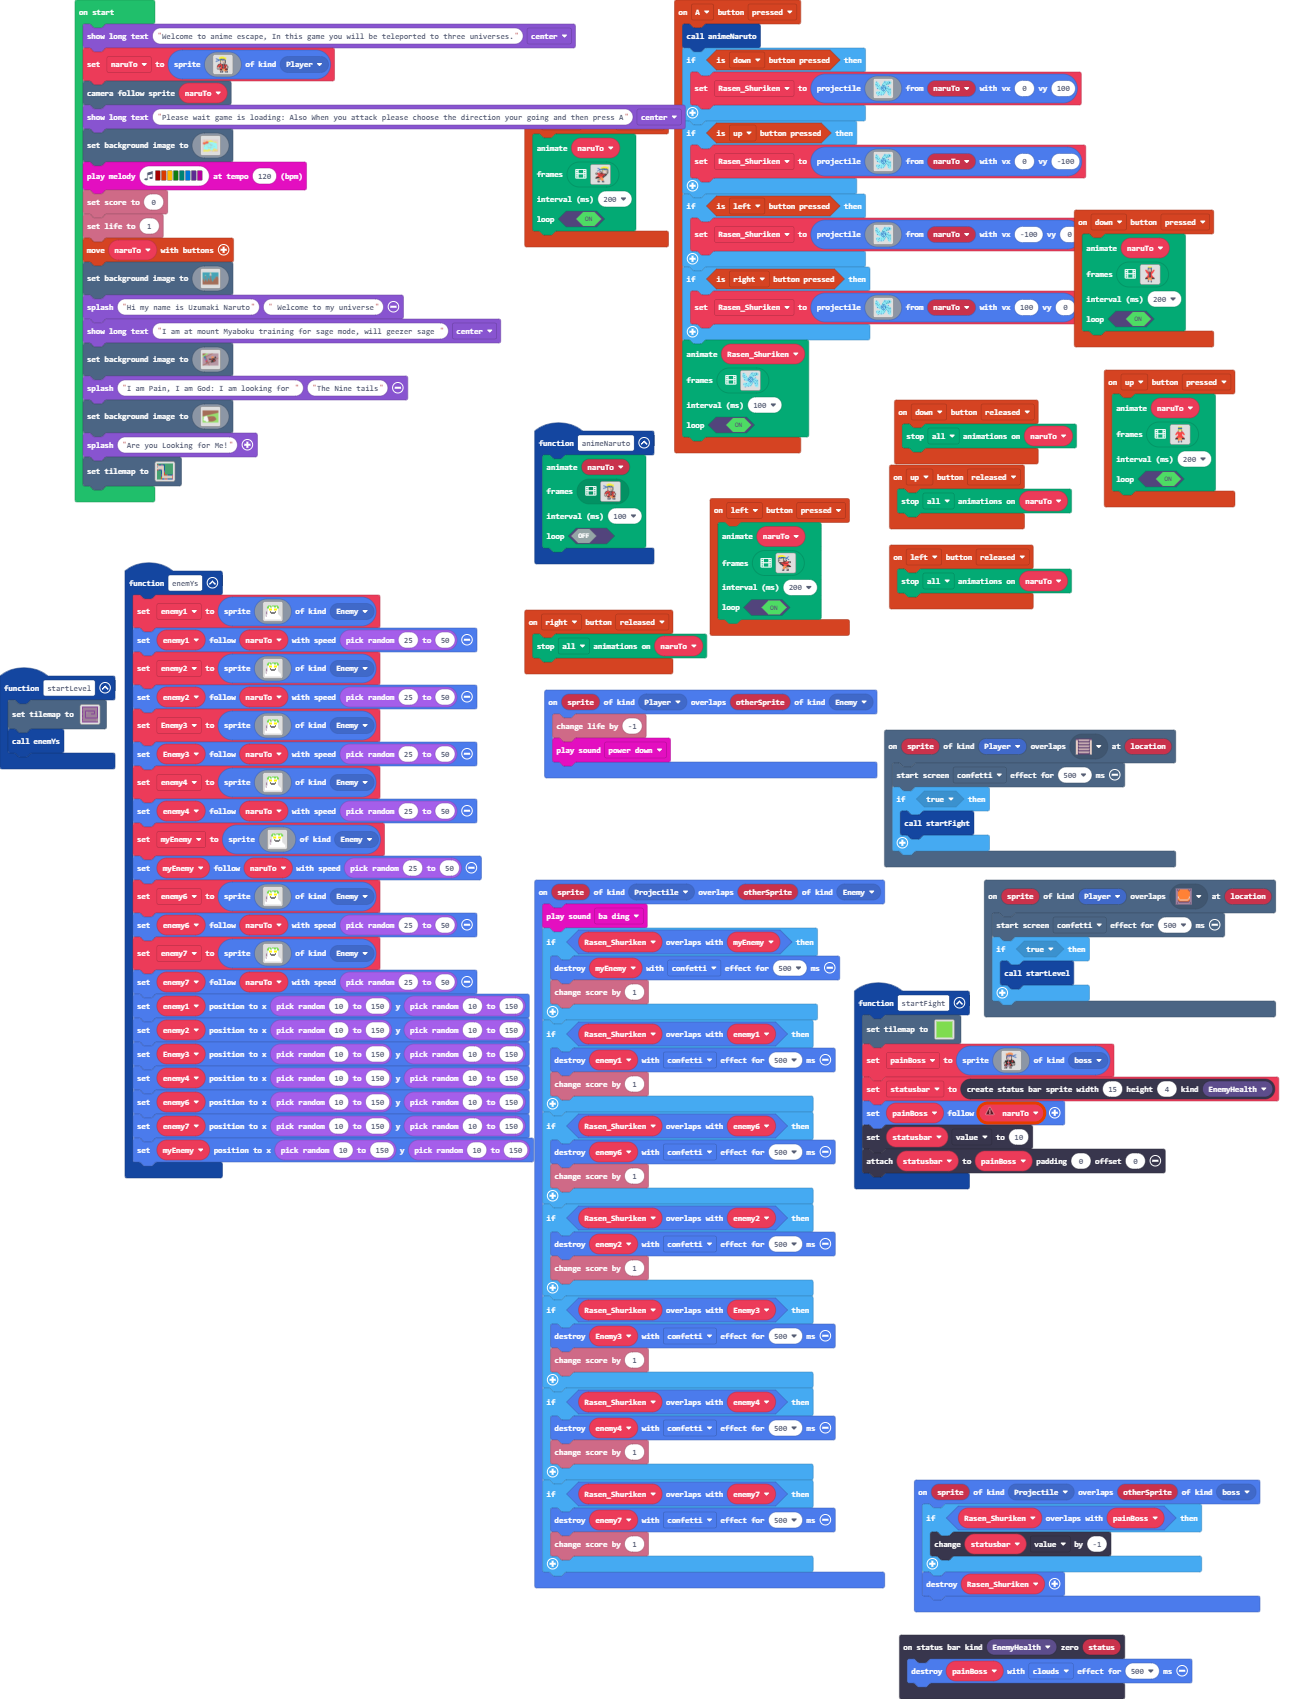
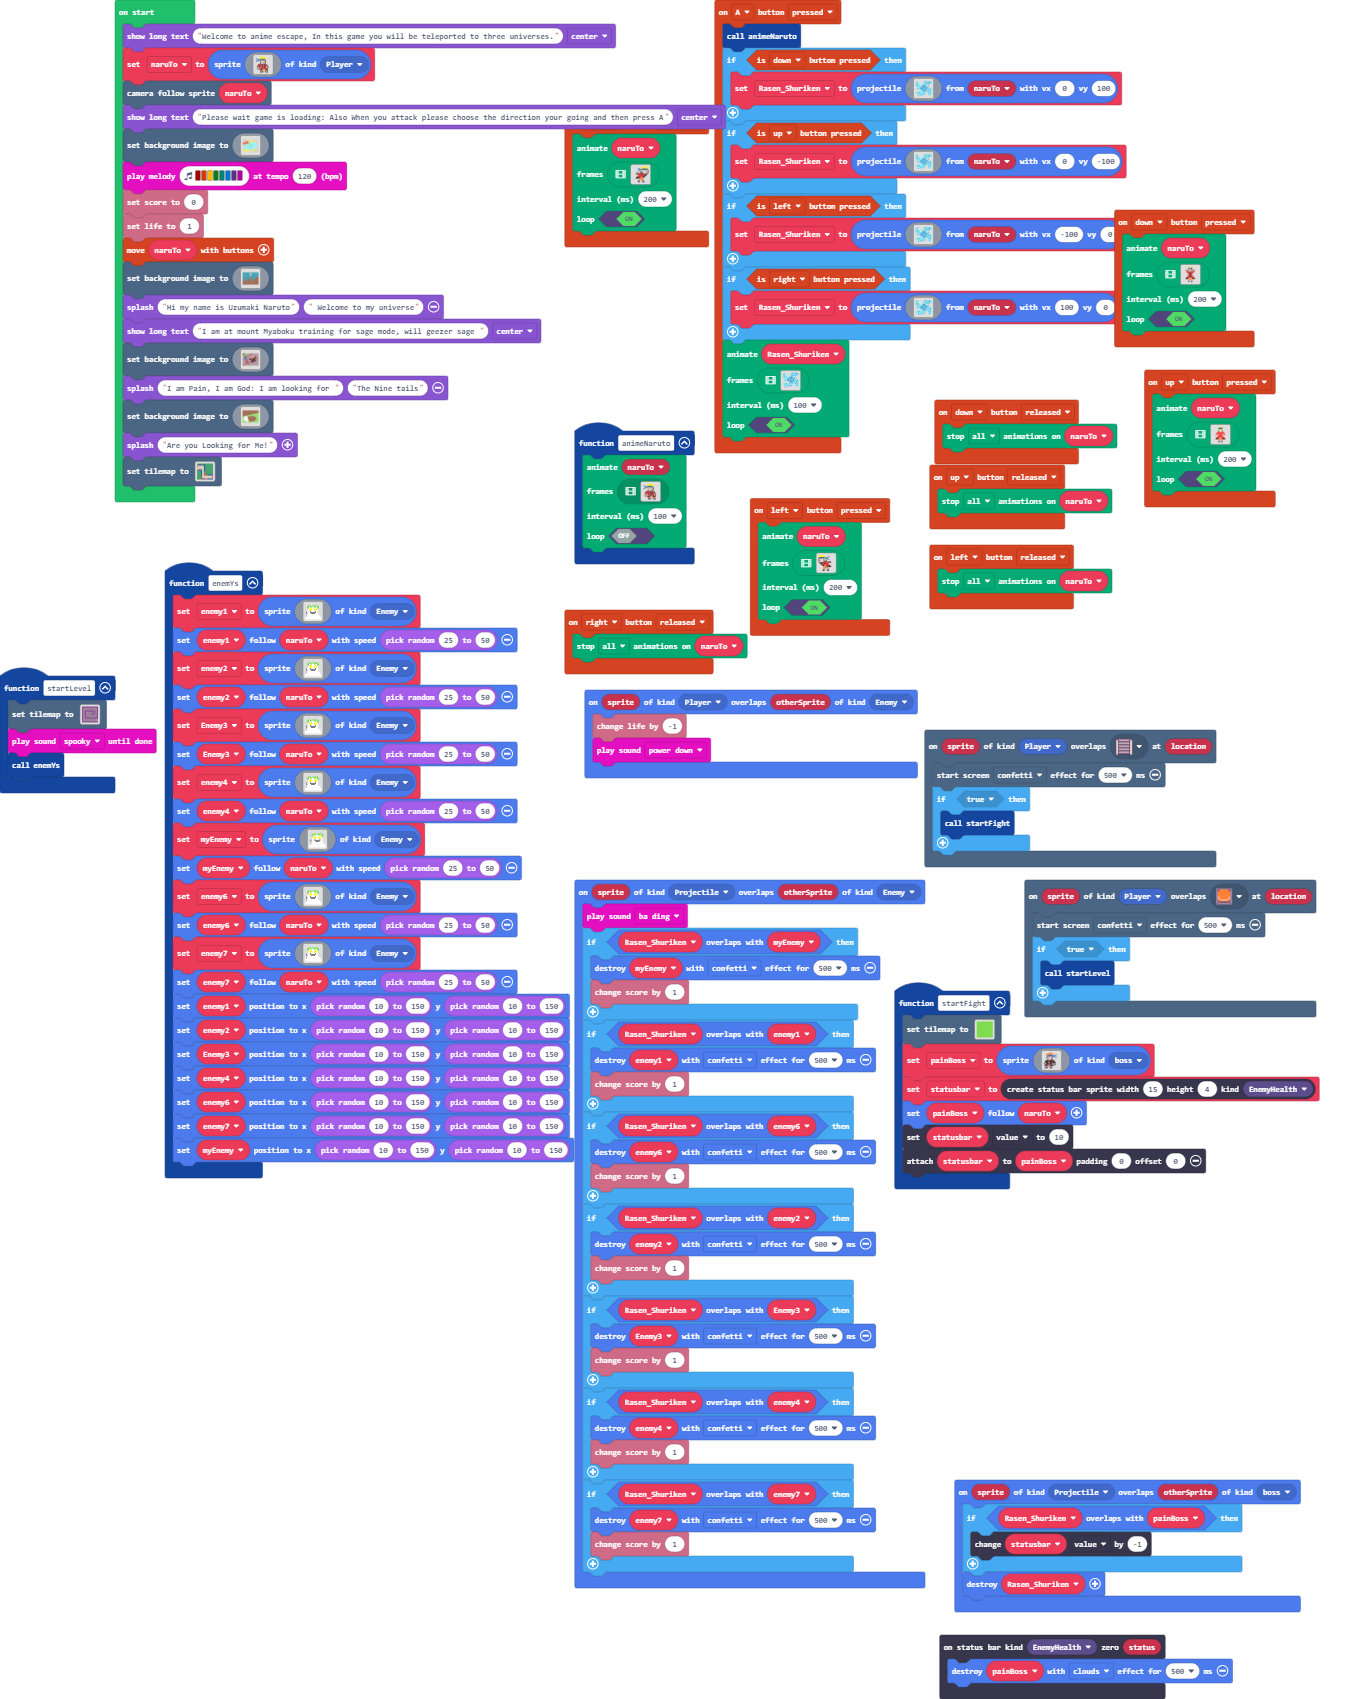
Update main.blocks, main.ts

diff --git a/main.ts b/main.ts
@@ -241,6 +241,7 @@ scene.onOverlapTile(SpriteKind.Player, sprites.dungeon.buttonOrange, function (s
 })
 function startLevel () {
     tiles.setTilemap(tilemap`level15`)
+    music.spooky.playUntilDone()
     enemYs()
 }
 sprites.onOverlap(SpriteKind.Projectile, SpriteKind.Enemy, function (sprite, otherSprite) {
